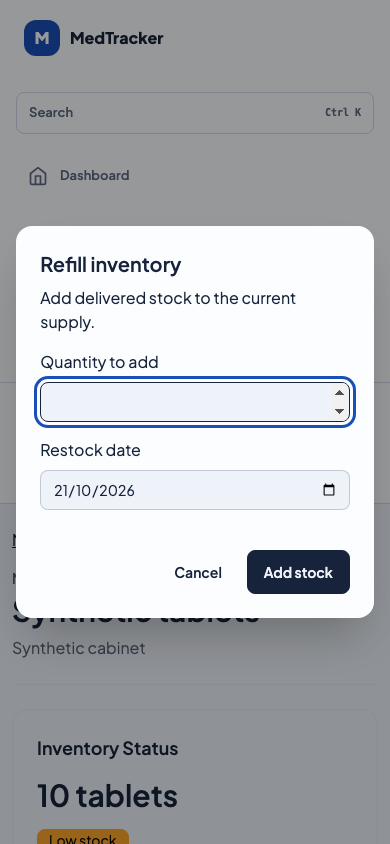
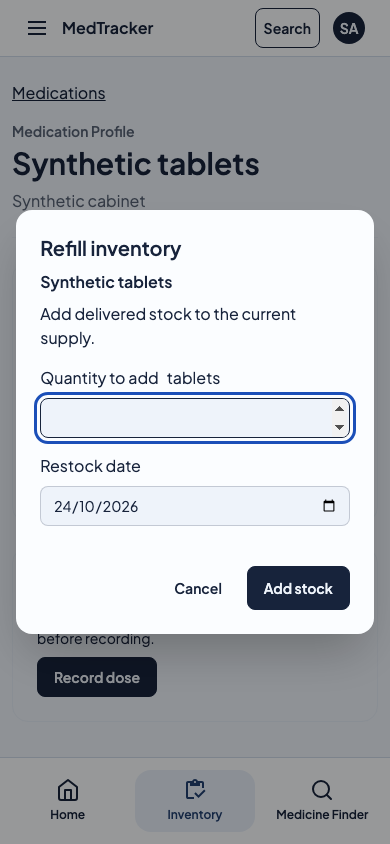
fix: identify medicine and units in refills (#2918)

diff --git a/assets/views/medications/show.html b/assets/views/medications/show.html
@@ -77,9 +77,10 @@
   {% endif %}
   </div>
 {% include "medications/record-dose-dialog.html" %}
-<dialog id="refill-inventory-dialog" class="modal" aria-labelledby="refill-inventory-title" {% if refill_open %}data-dialog-auto-open{% endif %}>
+<dialog id="refill-inventory-dialog" class="modal" aria-labelledby="refill-inventory-title" aria-describedby="refill-medication" {% if refill_open %}data-dialog-auto-open{% endif %}>
   <div class="modal-box max-w-xl">
     <h2 id="refill-inventory-title" class="text-xl font-semibold">{{ labels.medications.show.browser.refill_inventory }}</h2>
+    <p id="refill-medication" class="mt-2 font-semibold">{{ name }}</p>
     <p class="mt-2">{{ labels.medications.show.browser.add_delivered }}</p>
     {% if refill_error %}<p id="refill-dialog-error" role="alert" class="alert mt-4" tabindex="-1" data-dialog-error-focus>{{ refill_error }}</p>{% endif %}
     {% if refill_conflict %}<div class="rounded-box border border-base-300 p-3 mt-3"><p>{{ labels.medications.show.browser.latest_stock }}: <strong>{{ quantity }} {{ unit }}</strong></p><button type="button" class="btn btn-ghost min-h-11 mt-2" data-refill-use-latest="{{ etag }}">{{ labels.medications.show.browser.use_latest }}</button></div>{% endif %}
@@ -87,7 +88,10 @@
       <input type="hidden" name="authenticity_token" value="{{ authenticity_token }}">
       <input type="hidden" name="etag" value="{% if refill_open %}{{ refill_etag }}{% else %}{{ etag }}{% endif %}">
       {% if refill_options %}<div class="grid gap-2"><label for="refill-option">{{ labels.medications.show.browser.dose_option }}</label><select id="refill-option" name="dosage_option_id" class="select w-full" required><option value="">{{ labels.medications.show.browser.choose_dose_option }}</option>{% for option in refill_options %}<option value="{{ option.id }}">{{ option.label }}</option>{% endfor %}</select></div>{% endif %}
-      <label class="grid gap-2" for="refill-quantity">{{ labels.medications.show.browser.quantity_to_add }}<input id="refill-quantity" name="quantity" type="number" min="0.01" step="0.01" class="input w-full" {% if refill_open %}value="{{ refill_quantity }}"{% endif %} {% if refill_quantity_error %}aria-invalid="true" aria-describedby="refill-dialog-error"{% endif %} autofocus required></label>
+      <div class="grid gap-2">
+        <div class="flex gap-2 items-baseline"><label for="refill-quantity">{{ labels.medications.show.browser.quantity_to_add }}</label>{% if unit and not refill_options %}<span id="refill-quantity-unit">{{ unit }}</span>{% endif %}</div>
+        <input id="refill-quantity" name="quantity" type="number" min="0.01" step="0.01" class="input w-full" {% if refill_open %}value="{{ refill_quantity }}"{% endif %} {% if refill_quantity_error %}aria-invalid="true"{% endif %} aria-describedby="{% if refill_quantity_error %}refill-dialog-error{% endif %}{% if unit and not refill_options %} refill-quantity-unit{% endif %}" autofocus required>
+      </div>
       <label class="grid gap-2" for="refill-date">{{ labels.medications.show.browser.restock_date }}<input id="refill-date" name="restock_date" type="date" class="input w-full" value="{% if refill_open %}{{ refill_date }}{% else %}{{ restock_date }}{% endif %}" {% if refill_date_error %}aria-invalid="true" aria-describedby="refill-dialog-error"{% endif %} required></label>
       <div class="modal-action"><button type="button" class="btn btn-ghost min-h-11" data-dialog-close>{{ labels.medications.show.browser.cancel }}</button><button type="submit" class="btn btn-neutral min-h-11">{{ labels.medications.show.browser.add_stock }}</button></div>
     </form>

diff --git a/tests/browser/journeys.rs b/tests/browser/journeys.rs
@@ -790,7 +790,38 @@ window.__barcodeScannerTestLibrary = { Html5Qrcode: class {
                 .to_be_visible()
                 .await
                 .unwrap();
-            harness::capture(page, "barcode-hit-mobile").await;
+            let refill = page.get_by_role(AriaRole::Dialog, named("Refill inventory"));
+            expect(refill.clone())
+                .to_contain_text("Synthetic tablets")
+                .await
+                .unwrap();
+            expect(refill.get_by_text("tablets", true))
+                .to_be_visible()
+                .await
+                .unwrap();
+            for (width, height, name) in [
+                (1440, 1000, "refill-context-desktop"),
+                (390, 844, "barcode-hit-mobile"),
+            ] {
+                page.set_viewport_size(Viewport { width, height })
+                    .await
+                    .unwrap();
+                expect(refill.clone()).to_be_visible().await.unwrap();
+                assert!(
+                    !page
+                        .evaluate::<(), bool>(
+                            "() => document.documentElement.scrollWidth > innerWidth",
+                            None,
+                        )
+                        .await
+                        .unwrap()
+                );
+                expect(page.locator("body[data-navigation-ready]"))
+                    .to_be_visible()
+                    .await
+                    .unwrap();
+                harness::capture(page, name).await;
+            }
         })
     })
     .await;
